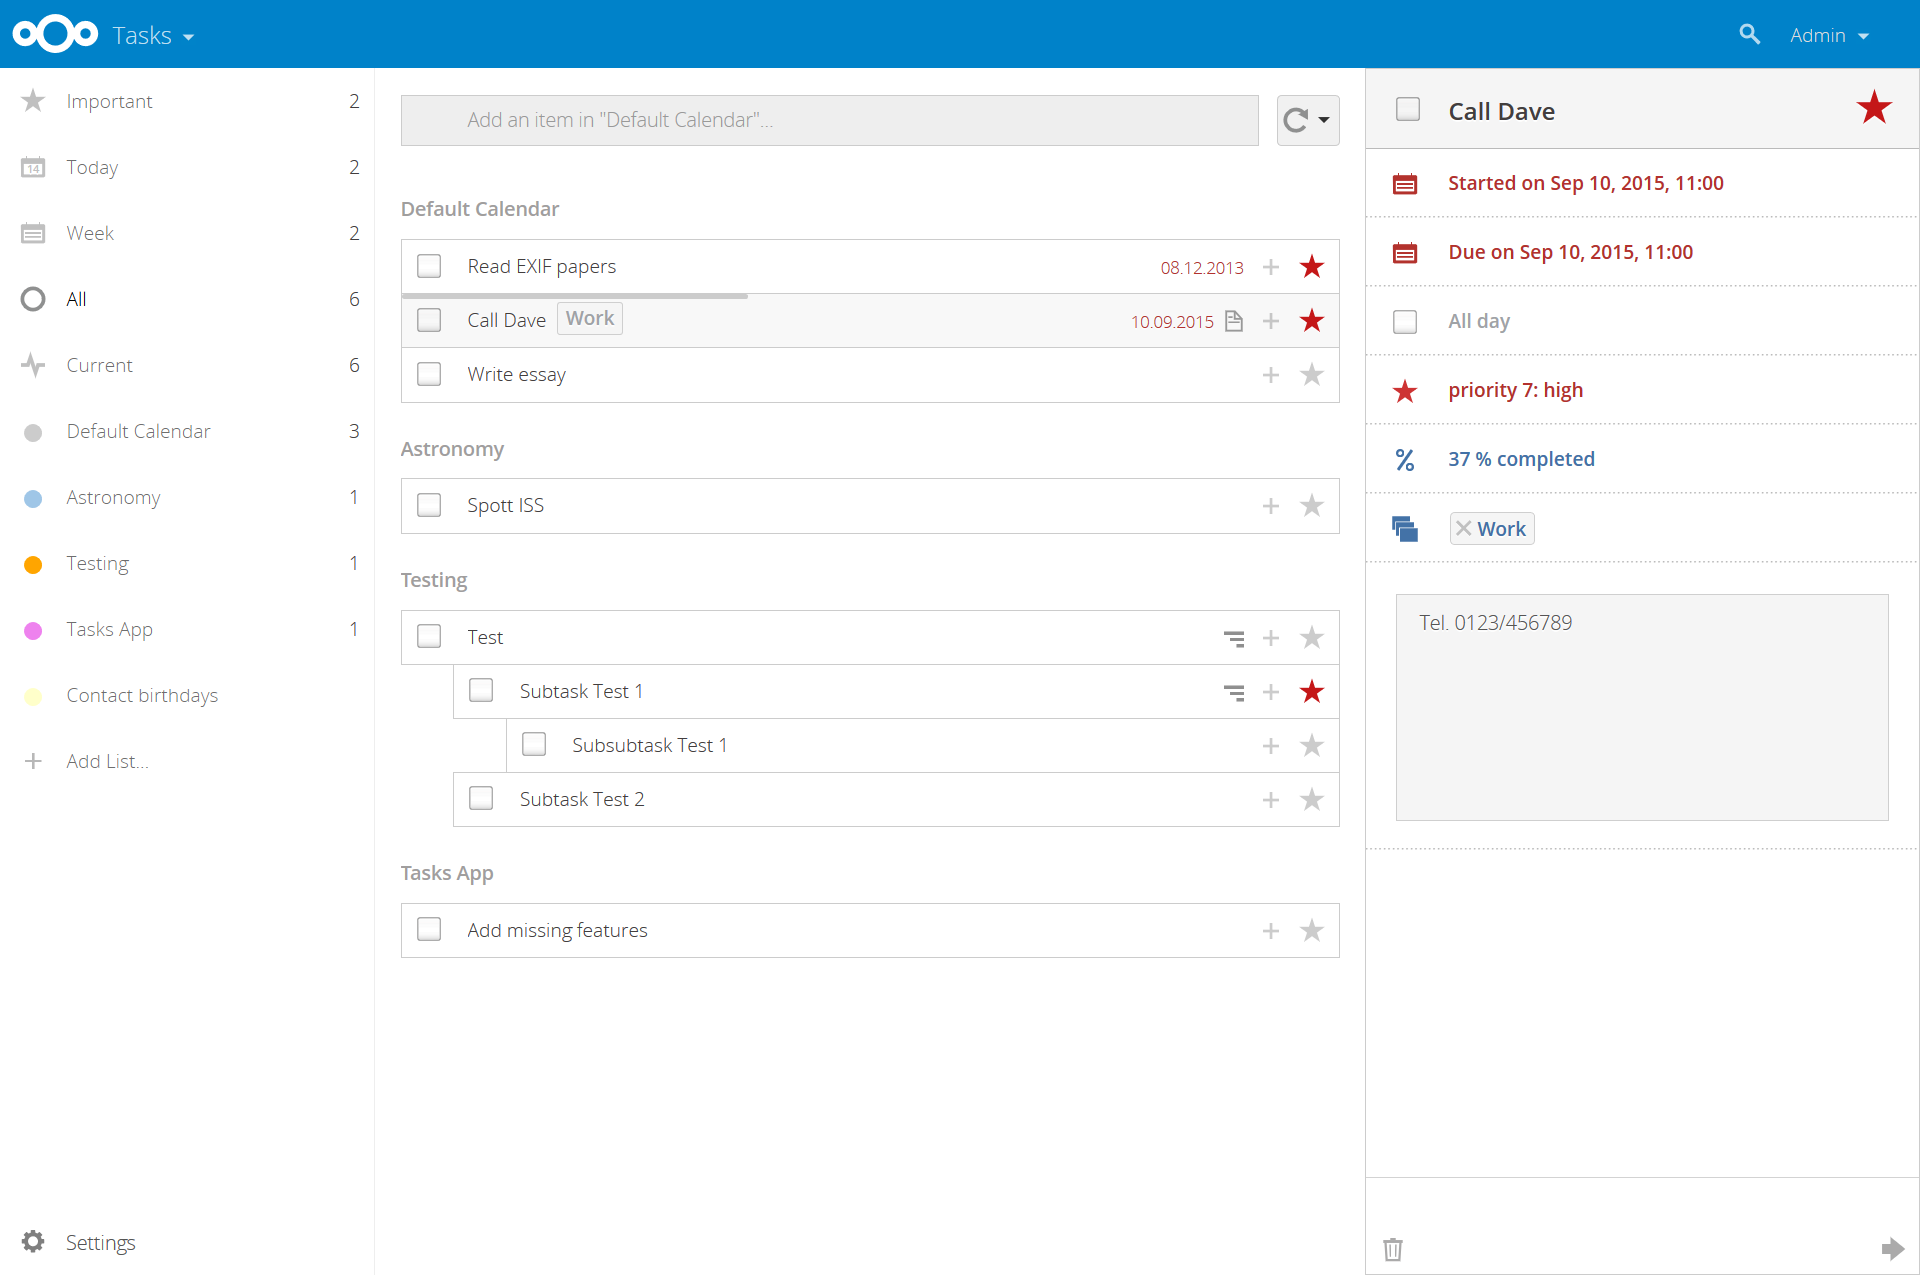
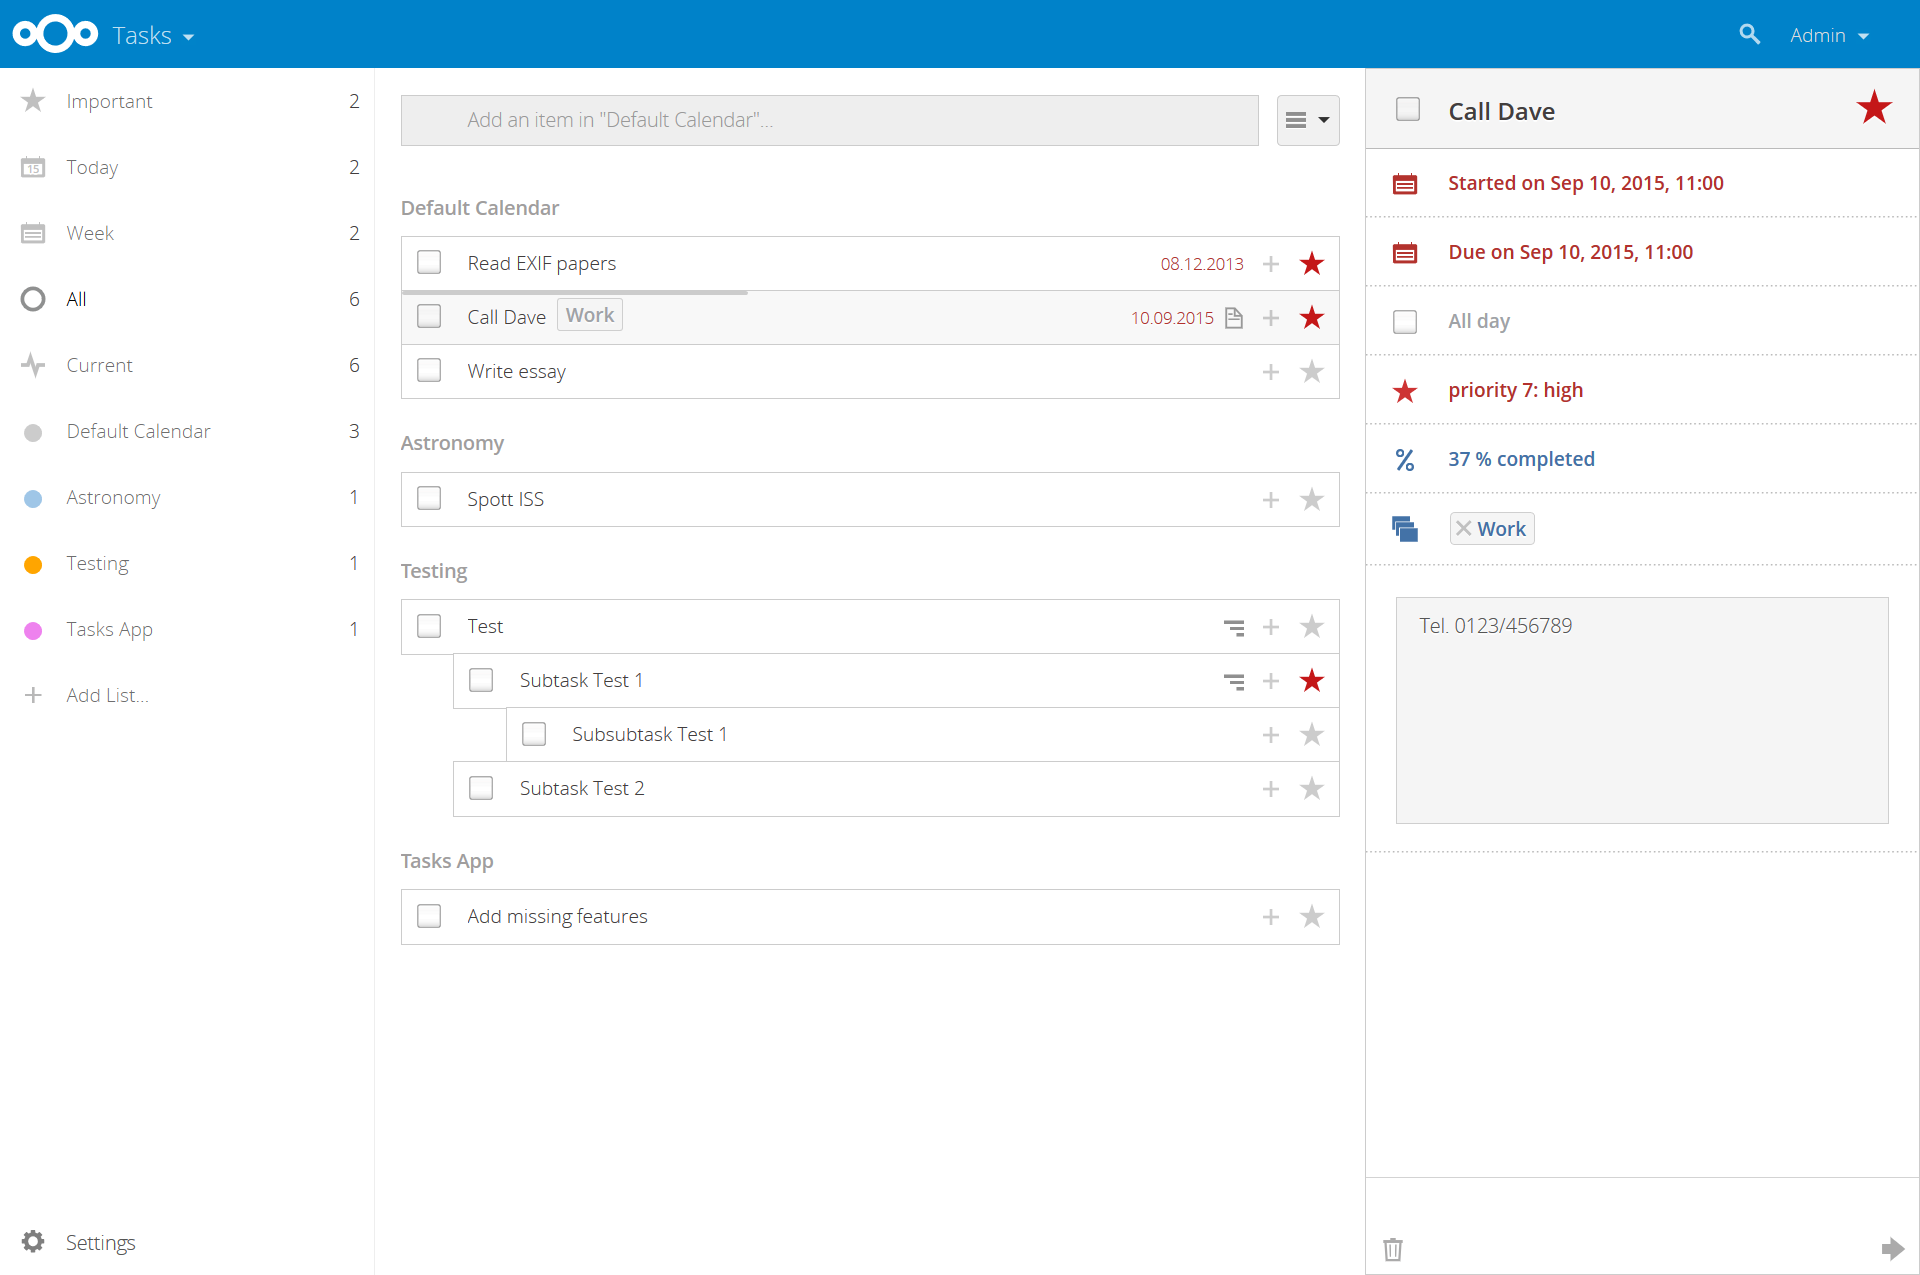
Rework readme, update screenshot

diff --git a/README.md b/README.md
@@ -2,17 +2,34 @@
 
 [![Build Status](https://scrutinizer-ci.com/g/nextcloud/tasks/badges/build.png?b=master)](https://scrutinizer-ci.com/g/nextcloud/tasks/build-status/master) [![Scrutinizer Code Quality](https://scrutinizer-ci.com/g/nextcloud/tasks/badges/quality-score.png?b=master)](https://scrutinizer-ci.com/g/nextcloud/tasks/?branch=master) [![Code Coverage](https://scrutinizer-ci.com/g/nextcloud/tasks/badges/coverage.png?b=master)](https://scrutinizer-ci.com/g/nextcloud/tasks/?branch=master)
 
-Tasks app for Nextcloud.
-
-### Installation
-
- * **Using git:** In your `nextcloud/apps/` directory, run `git clone https://github.com/nextcloud/tasks/`. Then go to the Apps manager tab in your Nextcloud web interface, and enable the Tasks app.
- * **Using the zip archive:** Download the latest [zip archive](https://github.com/nextcloud/tasks/archive/master.zip), extract the `tasks-master` directory inside your `nextcloud/apps/` directory, and rename it to `tasks`. For stable releases, you can also download one of the [releases](https://github.com/nextcloud/tasks/releases) tar.gz archives. Then go to the Apps manager tab in your Nextcloud web interface, and enable the Tasks app.
-
-### Usage/Features
-
-Once enabled, a new `Tasks` menu will appear in your Nextcloud apps menu. From there you can **add and delete tasks, edit their title, description,  start and due dates, reminder times, mark them as important, and add comments on them**. Tasks can be **shared** between users. Tasks can be **synchronized using CalDav** (each task list is linked to an Nextcloud calendar, to sync it to your local client - Thunderbird, Evolution, KDE Kontact, iCal... - just add the calendar as a remote calendar in you client). You can **download your tasks as ICS** files using the download button for each calendar.
-
-### Screenshot
+**A tasks app for [Nextcloud](http://nextcloud.com). Easily sync tasks from various devices with your Nextcloud and edit them online.**
 
 ![tasks](https://raw.githubusercontent.com/nextcloud/tasks/master/screenshots/tasks-1.png)
+
+## Features
+
+* add and delete tasks, edit their title, description, start and due dates, set their priority and status
+* support for subtasks
+* smart collections showing you your important, current and upcoming tasks
+* simply drag and drop tasks to other calendars or make them subtasks
+
+## Installation
+
+In your Nextcloud, simply navigate to »Apps«, choose the category »Organization«, find the Tasks app and enable it.
+Then open the Tasks app from the app menu.
+
+## Maintainers
+
+[Raimund Schlüßler](https://github.com/raimund-schluessler) [and many more](https://github.com/nextcloud/calendar/graphs/contributors)
+
+If you’d like to join, just go through the [issue list](https://github.com/nextcloud/calendar/issues?q=is%3Aopen+is%3Aissue+label%3A%22starter+issue%22) and fix some. :)
+
+## Developer setup info
+
+Just clone this repo into your apps directory (Nextcloud server installation needed). Additionally,  [nodejs and npm](https://nodejs.org/en/download/package-manager/) are needed for installing JavaScript dependencies.
+
+Once node and npm are installed, PHP and JavaScript dependencies can be installed by running
+```bash
+$ make
+```
+Please execute this command with your ordinary user account and neither root nor sudo.
